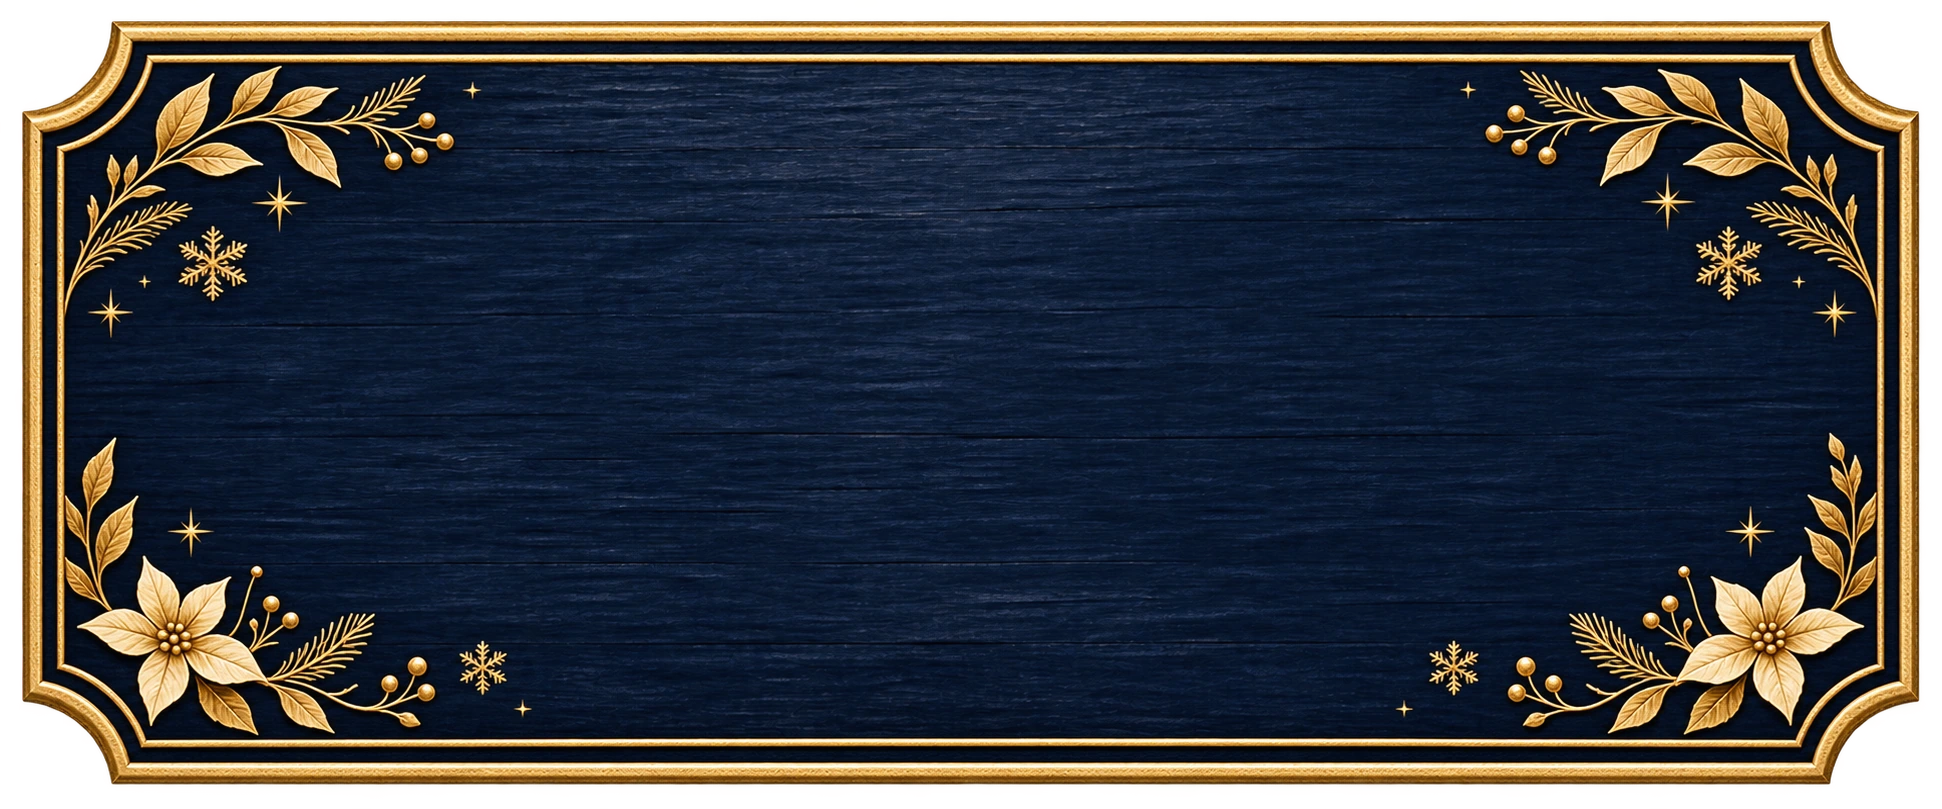
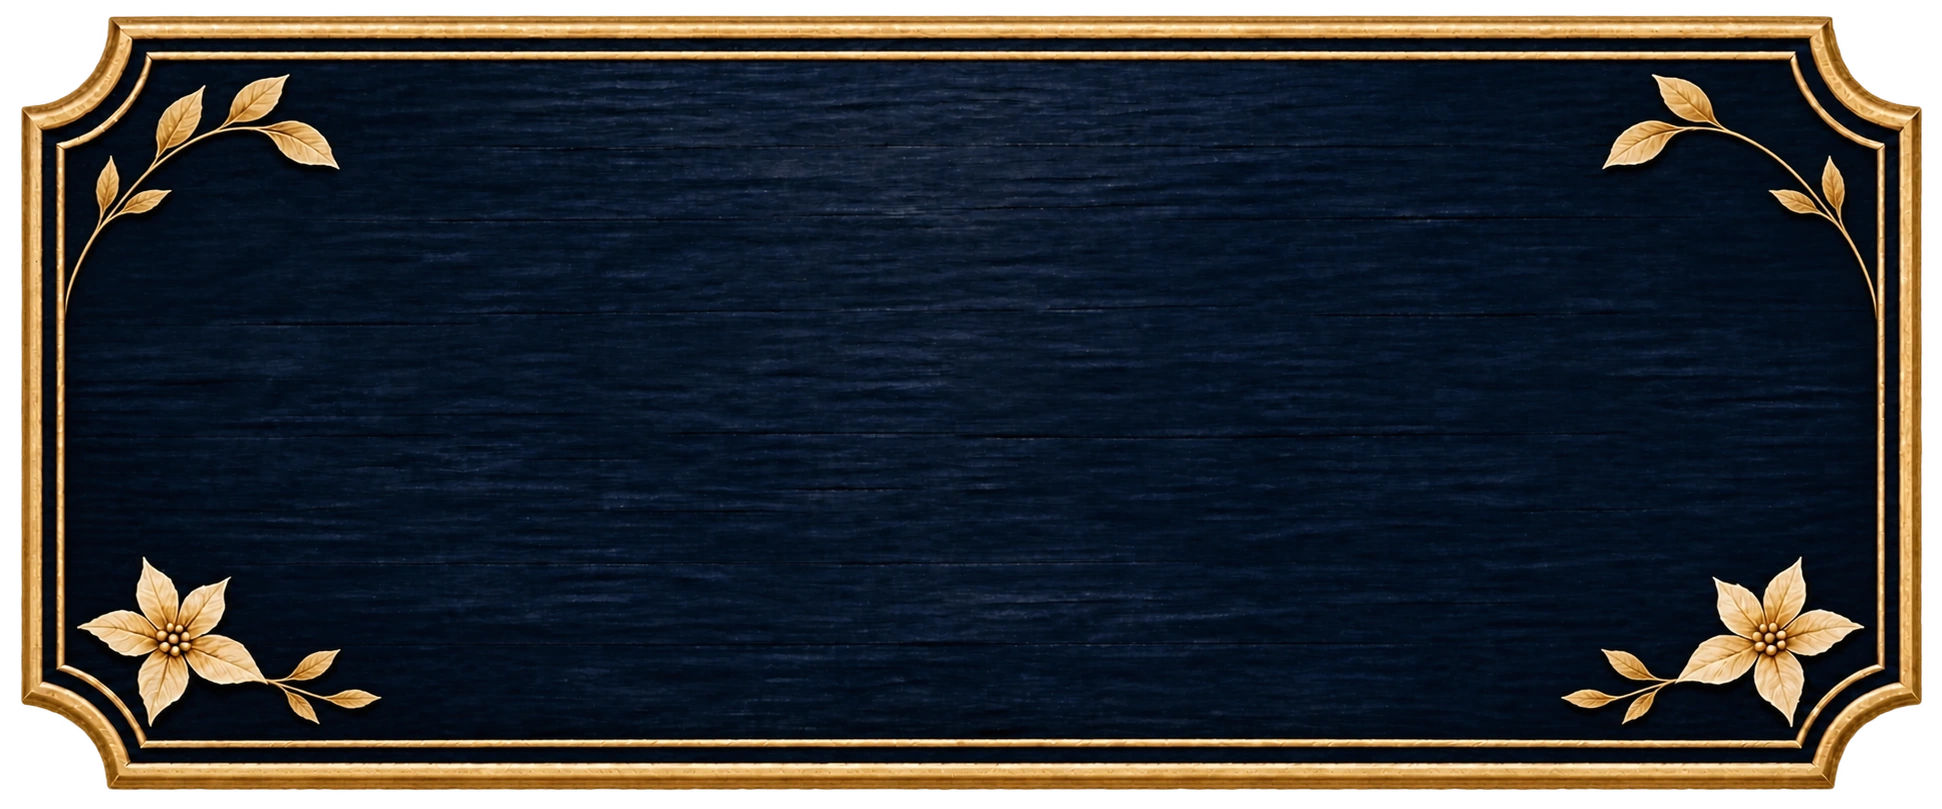
Add files via upload

diff --git a/2026-dyson-christmas-test/index.html b/2026-dyson-christmas-test/index.html
@@ -124,7 +124,7 @@
   </div>
   <div id="draw-stage" class="draw-stage">
     <div class="draw-landscape" aria-hidden="true"></div>
-    <div class="draw-wood-sign"><img src="./assets/images/scene/christmas-sign.webp" width="1536" height="640" alt=""><span>任選一盒禮物<br>拆開今日驚喜</span></div>
+    <div class="draw-wood-sign"><img src="./assets/images/scene/christmas-sign.webp?build=20261119-sign-clean" width="1536" height="640" alt=""><span>任選一盒禮物<br>拆開今日驚喜</span></div>
     <div id="draw-visitor" class="draw-visitor" aria-hidden="true" hidden><img id="draw-visitor-image" alt=""></div>
     <div class="draw-tree" aria-hidden="true">
       <img class="draw-tree-art" src="./assets/images/scene/day-12-christmas-tree.webp" alt="" width="1214" height="1295" loading="lazy" decoding="async">

diff --git a/2026-dyson-christmas-test/UPDATE_NOTES.md b/2026-dyson-christmas-test/UPDATE_NOTES.md
@@ -1,6 +1,6 @@
 # 更新紀錄
 
-目前交付以本檔最後的 v131「直接分享與製作卡片」為準；下方較早紀錄保留供追溯。
+目前交付以本檔最後的 v132 r3「招牌裝飾精簡」為準；下方較早紀錄保留供追溯。
 
 本版以 v129 Integrated r8 完整版為基礎，包含其木牌、五個禮物盒、避讓配置、聚光燈、十種背景動物、卡片製作、LINE 分享、專屬收藏及優惠券等功能。仍為測試環境，尚未部署或切換正式後端。
 
@@ -90,3 +90,19 @@
 - PNG、GIF、MP4 的一般及重試按鈕統一為「製作卡片」，製作進行中保留「正在製作…」狀態，操作提示及製作標題也統一稱為卡片。原有格式選擇與實際輸出功能不變。
 - 納入已記錄的動物降頻：首次等待由 6–10 秒調為 10–15 秒，每次路過結束後的間隔由 30–45 秒調為 45–65 秒。仍排除柴犬與狐狸，其他動物輪替及收藏不變。
 - 維持測試環境；沒有部署或修改正式後端。
+
+## v132：招牌點綴微減
+
+基準版本：v131。只減少牌面少量零散小星點，保留藍金配色、木紋、金框及主要枝葉花飾。圖片保持同一檔名 christmas-sign.webp，更新該圖片的快取參數。
+
+本次差異包只包含相較 v131 真正有變動的檔案，不累積先前更新；請覆蓋在已安裝的 v131 目錄。招牌大小、字級、懸掛位置、禮物、動物與所有互動功能均維持 v131。
+
+
+## v132 r2：招牌點綴再微減
+基準版本：上一版 v132。移除招牌下緣兩枚獨立小雪花，保留藍金木紋、金框與主要花葉裝飾；更新圖片快取參數。
+本差異包僅包含相較上一版 v132 的變動檔案，請覆蓋在上一版 v132 目錄。
+
+
+## v132 r3：招牌裝飾精簡
+基準版本：v132 r2。移除獨立星星、雪花、莓果與細松枝；四角保留少量金葉及下方兩朵花，維持藍金木紋與金框。更新圖片快取參數。
+本包僅包含相較 v132 r2 的變動檔案，請覆蓋在 v132 r2 目錄。
